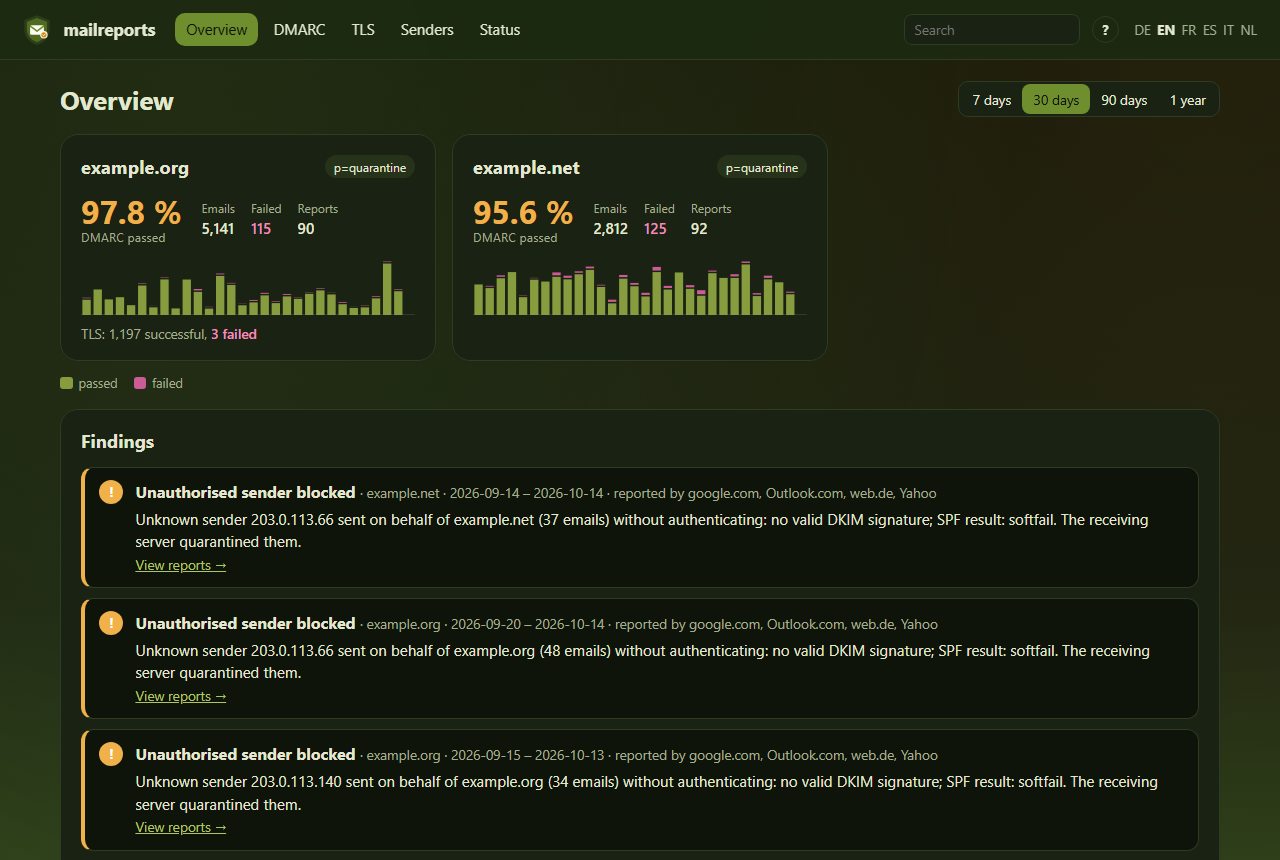
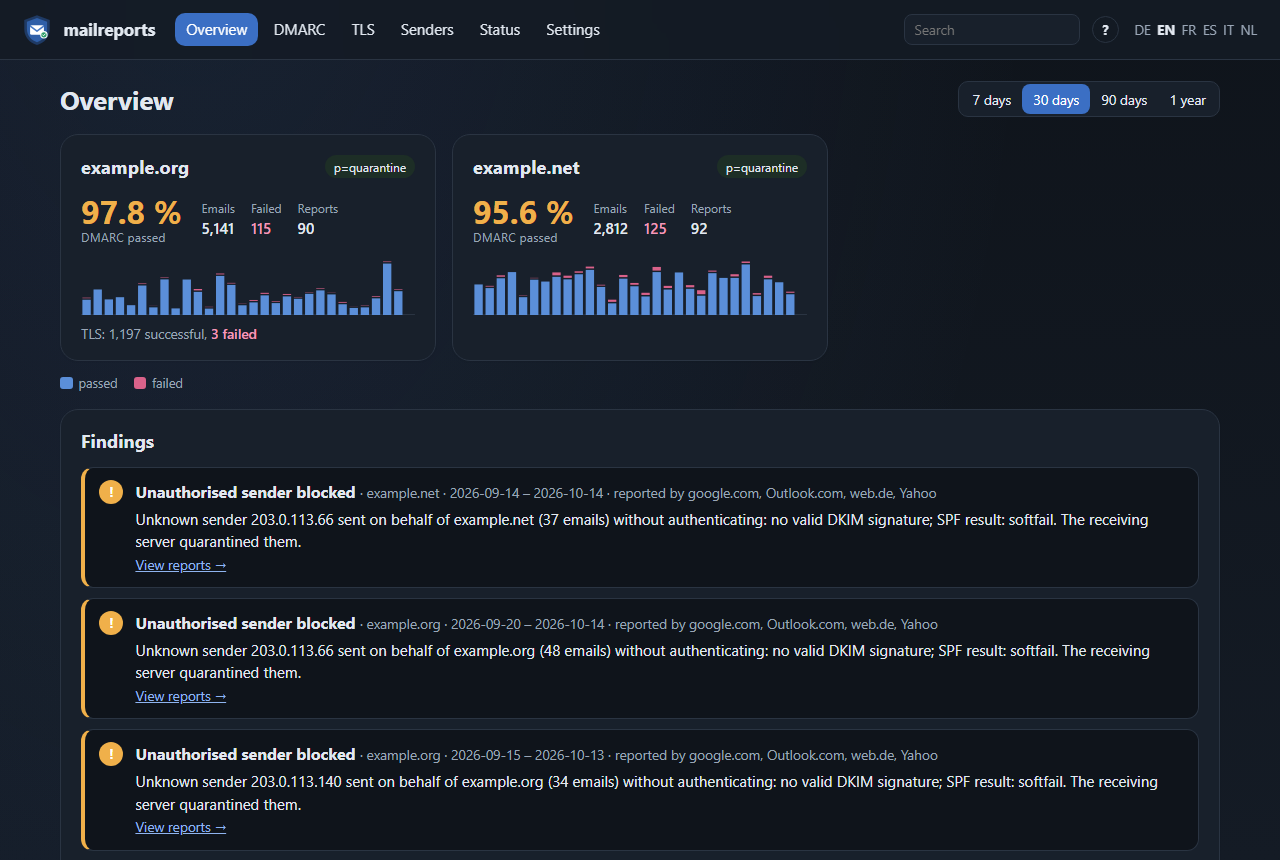
Neutral design by default, olive green with THEME=olive (0.4.1) (#8)
The public default design becomes neutral; the olive green design stays
available.

- **Neutral design by default** (grey and blue, light and dark follow
the device)
- `THEME=olive` keeps the previous olive green design and icon;
installations that want the previous look set it
- Chart colours checked for colour vision deficiencies (blue passed,
pink failed)
- README screenshots, docs, `.env.example` and changelog updated; test
for `THEME`
- Version 0.4.1

diff --git a/mailreports/static/style.css b/mailreports/static/style.css
@@ -1,5 +1,58 @@
 /* SPDX-License-Identifier: AGPL-3.0-or-later */
 :root {
+  --bg: #f3f5f8;
+  --card: #ffffff;
+  --line: #dde3ea;
+  --text: #1b2330;
+  --muted: #5b6676;
+  --accent: #2f5fa8;
+  --accent-2: #4a7cc7;
+  --btn: #1f3a64;
+  --btn-text: #ffffff;
+  --btn-hover: #2f6fd0;
+  --header: rgba(243, 245, 248, .8);
+  --ok: #3567b5;           /* chart: passed  */
+  --bad: #d14d72;          /* chart: failed  */
+  --bad-text: #a8325f;
+  --warn: #a86400;
+  --good-bg: #e3f0e8;
+  --warn-bg: #fbecd0;
+  --bad-bg: #f9e0e8;
+  --code-bg: #eef1f5;
+  --bg-image:
+    radial-gradient(ellipse at 15% -10%, rgba(59, 116, 209, .10), transparent 55%),
+    linear-gradient(180deg, #f5f7fa 0%, #e8ecf1 100%);
+  color-scheme: light;
+}
+@media (prefers-color-scheme: dark) {
+  :root {
+    --bg: #0f141b;
+    --card: #18202b;
+    --line: #2a3442;
+    --text: #e2e8f0;
+    --muted: #9aa6b6;
+    --accent: #8fb4ef;
+    --accent-2: #8fb4ef;
+    --btn: #3b6fc4;
+    --btn-text: #ffffff;
+    --btn-hover: #5b8be0;
+    --header: rgba(20, 27, 36, .85);
+    --ok: #5b8fd9;
+    --bad: #d9628a;
+    --bad-text: #f19ab8;
+    --warn: #f0b04a;
+    --good-bg: #1d2e26;
+    --warn-bg: #3a2c12;
+    --bad-bg: #3a1c28;
+    --code-bg: #0f141b;
+    --bg-image:
+      radial-gradient(ellipse at 15% -10%, rgba(91, 139, 224, .12), transparent 55%),
+      linear-gradient(180deg, #0f141b 0%, #141b25 100%);
+    color-scheme: dark;
+  }
+}
+/* THEME=olive */
+:root[data-theme="olive"] {
   --bg: #eef2dc;
   --card: #fbfcf4;
   --line: #d9e2b8;
@@ -26,7 +79,7 @@
   color-scheme: light;
 }
 @media (prefers-color-scheme: dark) {
-  :root {
+  :root[data-theme="olive"] {
     --bg: #0f140b;
     --card: #1a2213;
     --line: #2f3b22;
@@ -36,6 +89,7 @@
     --accent-2: #b1c465;
     --btn: #6f8f2e;
     --btn-text: #0f140b;
+    --btn-hover: #dd8706;
     --header: rgba(28, 42, 18, .85);
     --ok: #869c3e;
     --bad: #cc5c96;
@@ -52,6 +106,7 @@
     color-scheme: dark;
   }
 }
+
 
 * { box-sizing: border-box; }
 html { background: var(--bg); }
@@ -112,7 +167,7 @@ h4 { margin: 1rem 0 .35rem; font-size: .9rem; color: var(--muted); }
   border-radius: 18px;
   padding: 1.1rem 1.25rem;
   margin-bottom: 1rem;
-  box-shadow: 0 1px 2px rgba(31, 38, 24, .05);
+  box-shadow: 0 1px 2px rgba(0, 0, 0, .05);
 }
 .card-head { display: flex; justify-content: space-between; align-items: baseline; gap: 1rem; flex-wrap: wrap; margin-bottom: .75rem; }
 .card-head h2 { margin: 0; }

diff --git a/mailreports/templates/base.html b/mailreports/templates/base.html
@@ -1,10 +1,10 @@
 <!doctype html>
-<html lang="{{ current_language() }}">
+<html lang="{{ current_language() }}"{% if theme != "neutral" %} data-theme="{{ theme }}"{% endif %}>
 <head>
 <meta charset="utf-8">
 <meta name="viewport" content="width=device-width, initial-scale=1">
 <title>{% block title %}{% endblock %} · {{ app_title or "mailreports" }}</title>
-<link rel="icon" href="{{ logo_url or '/static/icon.svg' }}">
+<link rel="icon" href="{{ logo_url }}">
 <link rel="stylesheet" href="/static/style.css?v={{ version }}">
 <script src="/static/app.js?v={{ version }}" defer></script>
 <script src="/static/passkeys.js?v={{ version }}" defer></script>
@@ -12,7 +12,7 @@
 <body>
 <header class="top">
   <a class="brand" href="/">
-    <img src="{{ logo_url or '/static/icon.svg' }}" alt="" width="34" height="34">
+    <img src="{{ logo_url }}" alt="" width="34" height="34">
     <span>{{ app_title or "mailreports" }}</span>
   </a>
   <button class="menu-toggle" type="button" aria-expanded="false" aria-controls="menu" aria-label="{{ _('Menü') }}">

diff --git a/mailreports/config.py b/mailreports/config.py
@@ -119,6 +119,7 @@ class Settings:
     # Appearance
     app_title: str = ""
     logo_url: str = ""
+    theme: str = "neutral"            # neutral or olive
     default_language: str = ""
     domains: list[str] = field(default_factory=list)
     source_url: str = "https://github.com/Schnuecks/mailreports"
@@ -157,6 +158,16 @@ class Settings:
 
 
 WEEKDAYS = ("mon", "tue", "wed", "thu", "fri", "sat", "sun")
+
+
+THEMES = ("neutral", "olive")
+
+
+def _theme(value: str) -> str:
+    value = (value or "neutral").strip().lower()
+    if value not in THEMES:
+        raise SystemExit("THEME must be neutral or olive")
+    return value
 
 
 def _weekday(value: str) -> int:
@@ -239,6 +250,7 @@ def load() -> Settings:
         trusted_proxies=_networks(env_list("TRUSTED_PROXIES")),
         app_title=env("APP_TITLE"),
         logo_url=env("LOGO_URL"),
+        theme=_theme(env("THEME", "neutral")),
         default_language=env("DEFAULT_LANGUAGE").lower(),
         domains=[d.lower() for d in env_list("DOMAINS")],
         source_url=env("SOURCE_URL", "https://github.com/Schnuecks/mailreports"),

diff --git a/tests/test_config.py b/tests/test_config.py
@@ -38,3 +38,22 @@ def test_warns_about_wide_trusted_network(tmp_path, caplog):
     caplog.clear()
     Service(make_settings(tmp_path, trusted_proxies=[ipaddress.ip_network("172.20.1.1/32")]))
     assert "whole network" not in caplog.text
+
+
+def test_theme(monkeypatch, tmp_path):
+    from fastapi.testclient import TestClient
+
+    from mailreports.main import create_app
+    from mailreports.service import Service
+    from tests.conftest import make_settings
+    monkeypatch.setenv("THEME", "Olive")
+    assert config.load().theme == "olive"
+    monkeypatch.setenv("THEME", "pink")
+    with pytest.raises(SystemExit):
+        config.load()
+    (tmp_path / "a").mkdir()
+    (tmp_path / "b").mkdir()
+    html = TestClient(create_app(Service(make_settings(tmp_path / "a", theme="olive")))).get("/").text
+    assert 'data-theme="olive"' in html and "/static/icon-olive.svg" in html
+    html = TestClient(create_app(Service(make_settings(tmp_path / "b")))).get("/").text
+    assert "data-theme" not in html and 'src="/static/icon.svg"' in html

diff --git a/mailreports/web.py b/mailreports/web.py
@@ -115,7 +115,9 @@ def setup(service) -> None:
     env.globals.update(
         _=i18n.gettext, ngettext=i18n.ngettext, fmt=fmt, num=fmt_number, pct=fmt_pct,
         bar_chart=bar_chart, loads=loads, ex=explain, version=__version__,
-        app_title=s.app_title, logo_url=s.logo_url, source_url=s.source_url, languages=i18n.LANGUAGES,
+        app_title=s.app_title, theme=s.theme,
+        logo_url=s.logo_url or ("/static/icon-olive.svg" if s.theme == "olive" else "/static/icon.svg"),
+        source_url=s.source_url, languages=i18n.LANGUAGES,
         current_language=i18n.current,
     )
     service.tz = tz

diff --git a/mailreports/__init__.py b/mailreports/__init__.py
@@ -2,4 +2,4 @@
 # Copyright (C) 2026 Schnuecks
 """mailreports – collects DMARC and SMTP TLS reports from an IMAP mailbox and explains them."""
 
-__version__ = "0.4.0"
+__version__ = "0.4.1"

diff --git a/README.md b/README.md
@@ -54,8 +54,8 @@ XML and result codes.
 - **Secrets from files** (`IMAP_PASSWORD_FILE`, `PUSHOVER_TOKEN_FILE`, …) for Docker secrets
 - **Upload and import** of older report files, **help pages** on SPF, DKIM, DMARC, alignment
   and TLS reporting
-- **Six languages** (English, German, French, Spanish, Italian, Dutch), light and dark theme,
-  works on phones
+- **Six languages** (English, German, French, Spanish, Italian, Dutch), light and dark theme
+  (neutral or olive green), works on phones
 - **Small and easy to run:** one container, one SQLite file, runs as a non-root user with a
   read-only file system and a built-in health check
 

diff --git a/docs/en/configuration.md b/docs/en/configuration.md
@@ -28,6 +28,7 @@ A report that is already stored (same organisation and report ID) counts as a du
 | Variable | Default | Meaning |
 |---|---|---|
 | `APP_TITLE` | `mailreports` | Name in the header and the browser tab |
+| `THEME` | neutral | Colour scheme: `neutral` (grey and blue) or `olive` (olive green); light and dark follow the device |
 | `LOGO_URL` | built-in icon | Logo (34 px in the header) and favicon, e.g. an HTTPS URL |
 | `DEFAULT_LANGUAGE` | browser language | `de`, `en`, `fr`, `es`, `it` or `nl` |
 | `DOMAINS` | all | Comma-separated: which domains the overview shows, in this order |

diff --git a/docs/de/configuration.md b/docs/de/configuration.md
@@ -29,6 +29,7 @@ zählt als doppelt.
 | Variable | Standard | Bedeutung |
 |---|---|---|
 | `APP_TITLE` | `mailreports` | Name in der Kopfleiste und im Browser-Tab |
+| `THEME` | neutral | Farbschema: `neutral` (Grau und Blau) oder `olive` (Olivgrün); hell und dunkel richten sich nach dem Gerät |
 | `LOGO_URL` | eingebautes Symbol | Logo (34 px in der Kopfleiste) und Favicon, z. B. eine HTTPS-Adresse |
 | `DEFAULT_LANGUAGE` | Browsersprache | `de`, `en`, `fr`, `es`, `it` oder `nl` |
 | `DOMAINS` | alle | Kommagetrennt: welche Domains die Übersicht zeigt, in dieser Reihenfolge |

diff --git a/README.de.md b/README.de.md
@@ -58,7 +58,7 @@ haben – statt XML und Fehlercodes.
 - **Hochladen und Importieren** älterer Berichtsdateien, **Hilfeseiten** zu SPF, DKIM,
   DMARC, Ausrichtung und TLS-Reporting
 - **Sechs Sprachen** (Deutsch, Englisch, Französisch, Spanisch, Italienisch, Niederländisch),
-  helles und dunkles Design, auch fürs Handy
+  helles und dunkles Design (neutral oder Olivgrün), auch fürs Handy
 - **Klein und einfach zu betreiben:** ein Container, eine SQLite-Datei, läuft ohne
   Root-Rechte mit schreibgeschütztem Dateisystem und eingebautem Healthcheck
 

diff --git a/CHANGELOG.md b/CHANGELOG.md
@@ -2,6 +2,13 @@
 
 All notable changes are listed here. Versions follow [Semantic Versioning](https://semver.org/).
 
+## 0.4.1
+
+- **Neutral design by default** (grey and blue, light and dark); the olive green design is still
+  available with `THEME=olive`. Installations that want to keep the previous look set `THEME=olive`.
+- Chart colours checked for colour vision deficiencies (blue for passed, pink for failed)
+- Screenshots updated
+
 ## 0.4.0
 
 - **Settings page** for admins: set up Pushover, ntfy, webhook and email notifications, the
